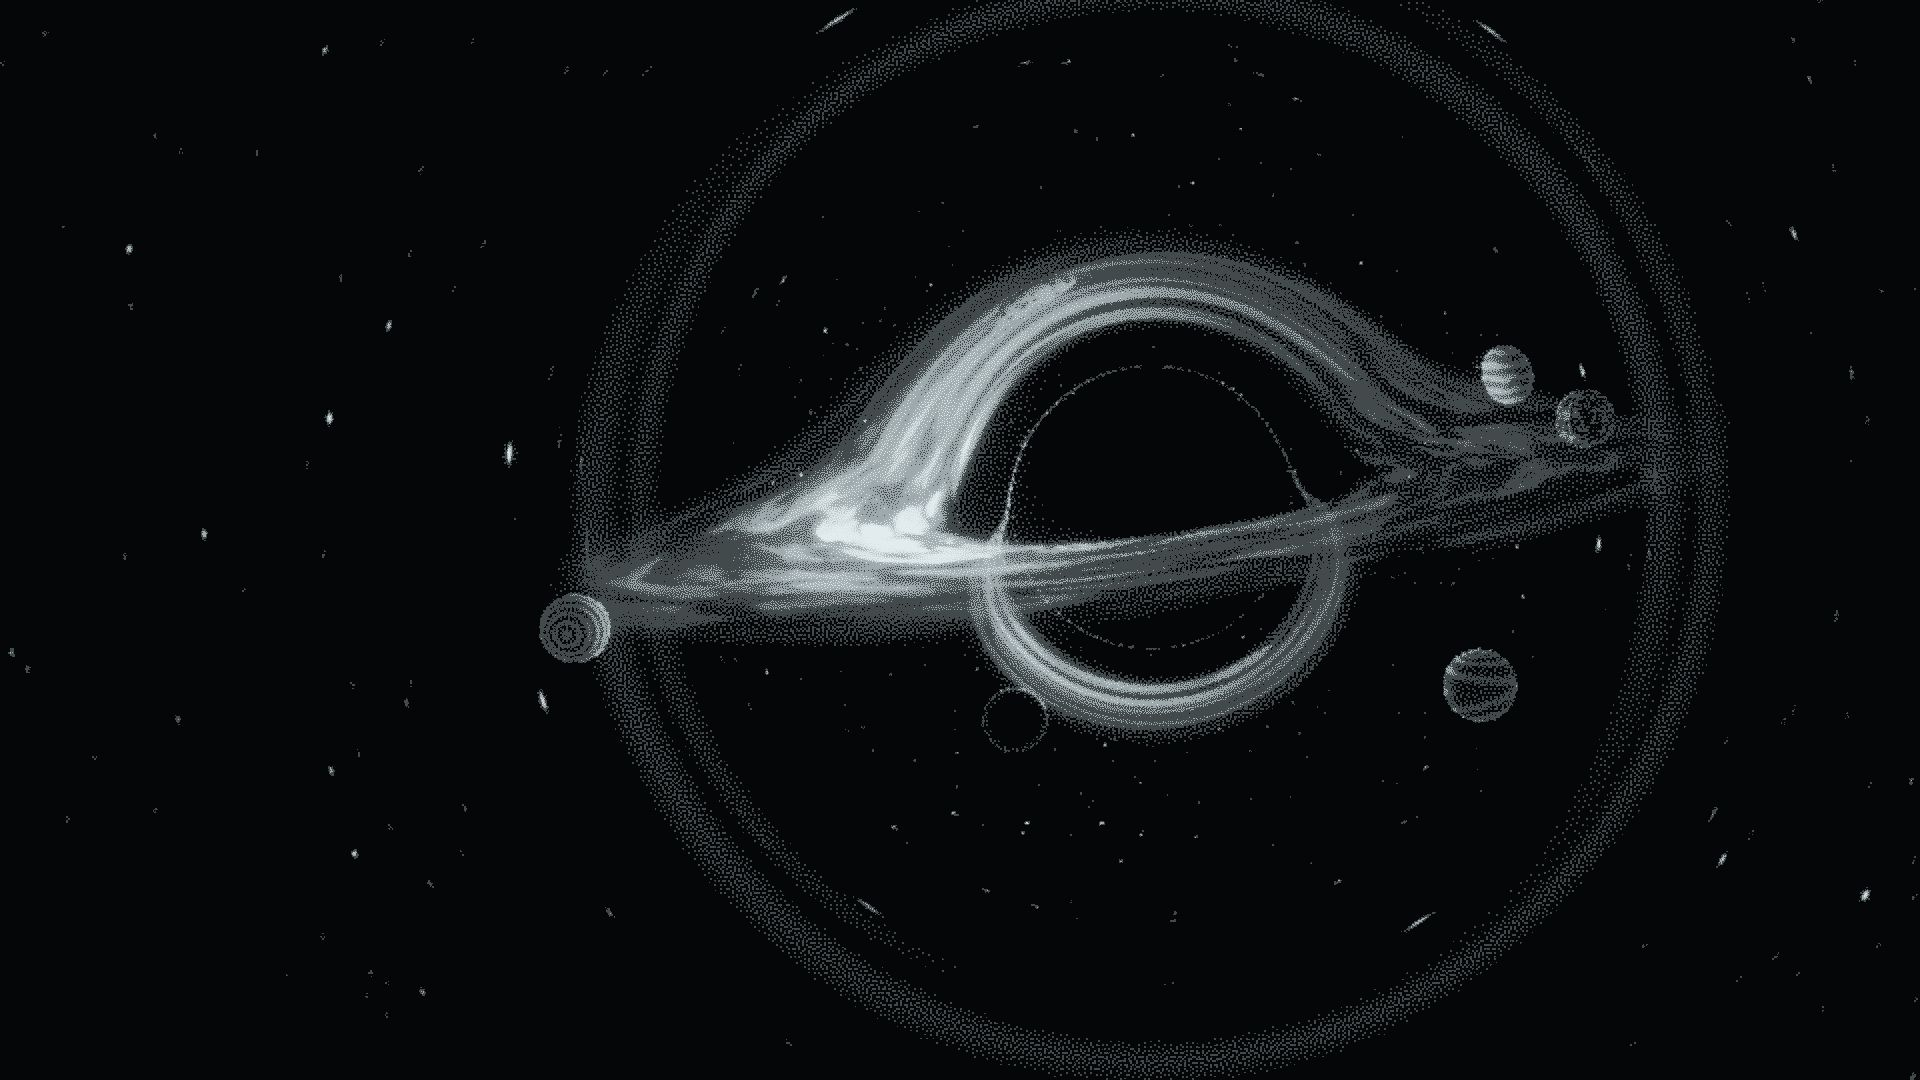
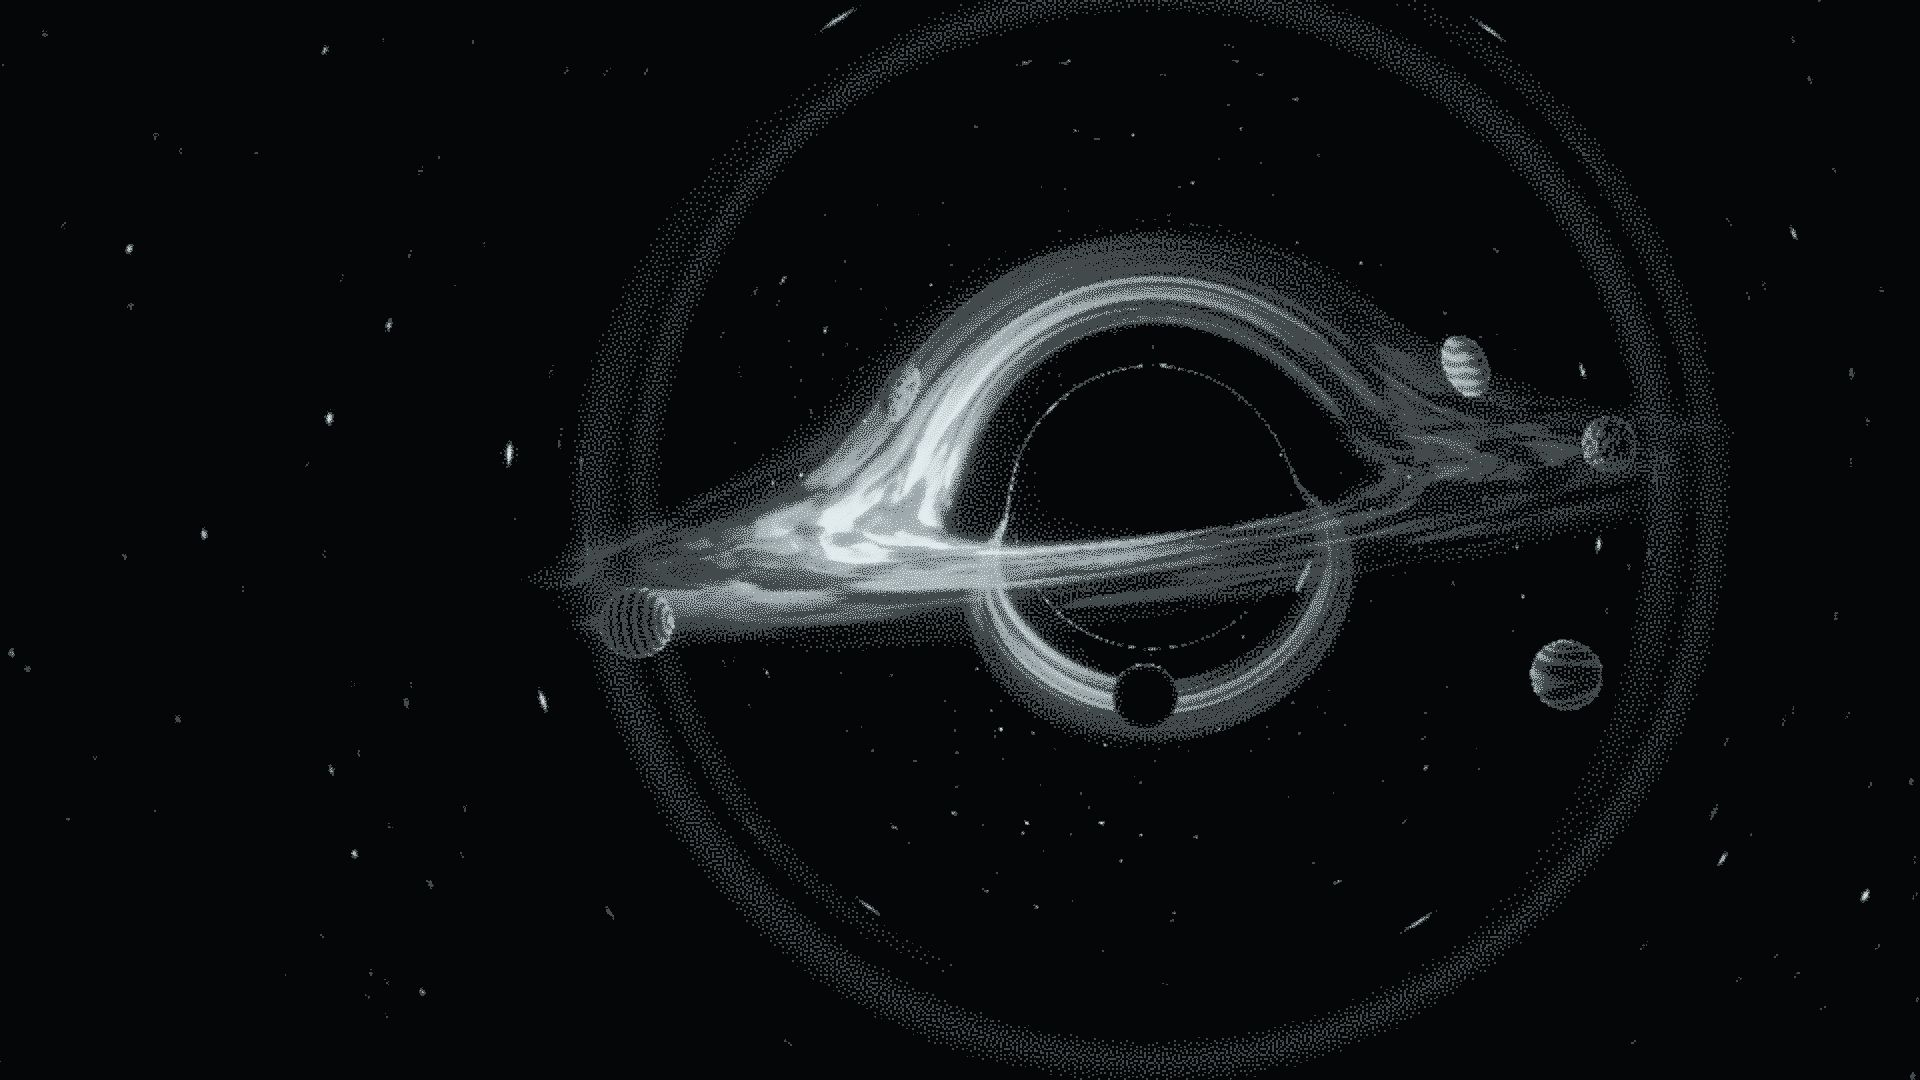
feat: real tagline, bio, contact and project repo links
- Tagline and bio from Rohith, verbatim; home meta and llms.txt now
  derive from site.ts instead of a hardcoded copy
- Contact: email and GitHub (no LinkedIn or résumé, by choice)
- Repository links for fixedin and metalshade; fixedin's stack gains
  TypeScript (its GitHub language)
- Bio block set smaller and wider with a stronger scrim, so the longer
  copy stays legible over the disk
- OG image and fallback stills re-rendered with the new tagline

Changed region(s): [[0.2812, 0.0, 0.9062, 1.0]]

diff --git a/src/content/site.ts b/src/content/site.ts
@@ -1,8 +1,7 @@
 export const site = {
   name: 'Rohith A',
   handle: 'alpharnog',
-  // TODO(rohith): placeholder tagline, drafted only to set the layout. Replace with your own line.
-  tagline: 'Tools, simulations and light, built close to the edge.',
+  tagline: 'LEMME SLACK OFF I DONT WANNA WORK',
 } as const;
 
 /**
@@ -27,8 +26,7 @@ export const chapters = {
     name: 'Accretion',
     title: 'Accretion',
     caption: 'About',
-    // TODO(rohith): your bio / manifesto, 2–4 sentences. Placeholder shown on the page until then.
-    bio: '[Bio to be written: two or three sentences on who you are, what you build, and what pulls you in.]',
+    bio: "I'm a computer science student in Bangalore and a creative technologist: I design, build and ship across UI, frontend and full-stack systems. Im into all the cool stuffs that exist,rn i wanna build a game but PERHAPS i do not have much knowledge about it so yea Learnin bout stuffs. I'm pulled toward anything where engineering and aesthetics have to be solved at the same time^_^",
     verse: ['What falls in', 'heats up.', 'What heats up', 'shines.'],
   },
   fall: {
@@ -50,12 +48,11 @@ export const chapters = {
 export type ChapterId = keyof typeof chapters;
 
 /**
- * Contact. TODO(rohith): fill every value; nothing here is guessed.
- * null renders a [TODO] marker in dev and is omitted in production.
+ * Contact rows on the singularity screen. A null value renders a [TODO]
+ * marker in dev and is omitted in production. (No LinkedIn or résumé, by
+ * choice; add a row here if that changes.)
  */
 export const contact: readonly { label: string; kind: 'email' | 'url' | 'file'; value: string | null }[] = [
-  { label: 'Email', kind: 'email', value: null }, // TODO(rohith): address
-  { label: 'GitHub', kind: 'url', value: null }, // TODO(rohith): profile URL
-  { label: 'LinkedIn', kind: 'url', value: null }, // TODO(rohith): profile URL
-  { label: 'Résumé', kind: 'file', value: null }, // TODO(rohith): drop the PDF in /public and put its path here
+  { label: 'Email', kind: 'email', value: 'alph4nog@gmail.com' },
+  { label: 'GitHub', kind: 'url', value: 'https://github.com/knsorrigle' },
 ];

diff --git a/src/content/projects.ts b/src/content/projects.ts
@@ -66,10 +66,10 @@ export const projects: readonly Project[] = [
     slug: 'fixedin',
     name: 'fixedin',
     oneLiner: 'Open-source CLI that tells you if a pasted error was already fixed upstream, and in which release.',
-    stack: ['CLI', 'open source', 'TODO: language'],
+    stack: ['TypeScript', 'CLI', 'open source'],
     year: null,
     orbitLabels: ['every error has a past', 'already fixed, somewhere upstream', 'which release'],
-    caseStudy: TODO_CASE,
+    caseStudy: { ...TODO_CASE, links: [{ label: 'Repository', href: 'https://github.com/knsorrigle/fixedin' }] },
     body: { surface: 'cellular', orbitRadius: 5.2, inclinationDeg: 16, nodeDeg: 20, phaseDeg: 30, radius: 0.42, brightness: 1.0 },
   },
   {
@@ -79,7 +79,7 @@ export const projects: readonly Project[] = [
     stack: ['Swift', 'Metal', 'macOS', 'open source'],
     year: null,
     orbitLabels: ['every frame, once more, in light', 'a pass after the last pass', 'metal under glass'],
-    caseStudy: TODO_CASE,
+    caseStudy: { ...TODO_CASE, links: [{ label: 'Repository', href: 'https://github.com/knsorrigle/shade-' }] },
     body: { surface: 'banded', orbitRadius: 6.6, inclinationDeg: -11, nodeDeg: 75, phaseDeg: 140, radius: 0.5, brightness: 1.15 },
   },
   {

diff --git a/index.html b/index.html
@@ -7,13 +7,13 @@
     <link rel="icon" href="/favicon.svg" type="image/svg+xml" />
     <link rel="apple-touch-icon" href="/apple-touch-icon.png" />
     <title>Rohith A · Event Horizon</title>
-    <meta name="description" content="Rohith A (alpharnog): portfolio. Tools, simulations and light, built close to the edge." />
+    <meta name="description" content="Rohith A (alpharnog): portfolio. LEMME SLACK OFF I DONT WANNA WORK" />
     <meta name="author" content="Rohith A" />
     <!-- canonical + og:url are added, and og:image made absolute, per page by scripts/postbuild.mjs (needs SITE_URL) -->
     <meta property="og:type" content="website" />
     <meta property="og:site_name" content="Rohith A · Event Horizon" />
     <meta property="og:title" content="Rohith A · Event Horizon" />
-    <meta property="og:description" content="Rohith A (alpharnog): portfolio. Tools, simulations and light, built close to the edge." />
+    <meta property="og:description" content="Rohith A (alpharnog): portfolio. LEMME SLACK OFF I DONT WANNA WORK" />
     <meta property="og:image" content="/og.jpg" />
     <meta property="og:image:width" content="1200" />
     <meta property="og:image:height" content="630" />

diff --git a/src/routes/Home.tsx b/src/routes/Home.tsx
@@ -206,7 +206,7 @@ export function Home() {
               <Verse lines={accretion.verse} index="III.a" className="scrim justify-self-start" />
               <div />
               <div className="tidal grid items-end gap-8 md:grid-cols-[1fr_auto]">
-                <p data-line className="scrim max-w-[38ch] font-display text-[clamp(1.2rem,1.9vw,1.7rem)] leading-[1.3] font-light text-ink-1">
+                <p data-line className="scrim scrim--strong max-w-[46ch] font-display text-[clamp(1.05rem,1.45vw,1.35rem)] leading-[1.38] font-light text-ink-1">
                   {accretion.bio}
                 </p>
                 <div className="scrim md:text-right">

diff --git a/src/styles/index.css b/src/styles/index.css
@@ -148,6 +148,12 @@
     background: radial-gradient(closest-side, rgb(5 6 7 / 0.82), rgb(5 6 7 / 0.55) 55%, rgb(5 6 7 / 0));
   }
 
+  /* For longer text over the brightest disk light (the bio). */
+  .scrim--strong::before {
+    inset: -3rem -4rem;
+    background: radial-gradient(closest-side, rgb(5 6 7 / 0.92), rgb(5 6 7 / 0.78) 60%, rgb(5 6 7 / 0));
+  }
+
   .readouts {
     display: grid;
     gap: 0.35rem;
